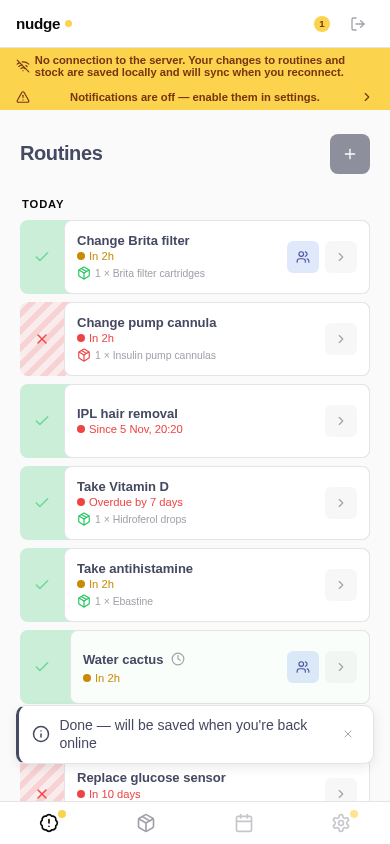
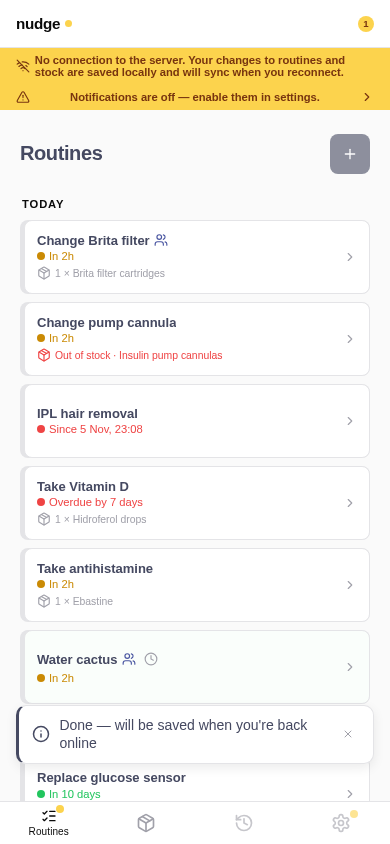
docs: regenerate screenshots with the touch layout
E2E:
- Give both screenshot contexts hasTouch + isMobile so the CSS sees a
  phone; the captures had the routine cards' mouse layout (44 px check strip)
- Reach the card's check by focus + Enter, since on touch it sits
  behind the 4 px strip

Docs:
- Regenerate all 14 docs/screenshots after the T104-T107 visual polish

diff --git a/e2e/screenshots.js b/e2e/screenshots.js
@@ -192,10 +192,15 @@ async function main() {
     ],
   })
   // locale: 'en-US' pins react-i18next's language-detector to English
-  // regardless of the host / runner locale.
+  // regardless of the host / runner locale. hasTouch + isMobile (T108): the
+  // captures are phone-sized, so the CSS must see a phone (hover: none,
+  // pointer: coarse) — otherwise the routine cards render their mouse layout
+  // (the 44 px coloured check strip) instead of the touch one (4 px grey).
   const context = await browser.newContext({
     viewport: { width: 390, height: 844 },
     locale: 'en-US',
+    hasTouch: true,
+    isMobile: true,
   })
   const page = await context.newPage()
 
@@ -279,6 +284,8 @@ async function main() {
       const context2 = await browser.newContext({
         viewport: { width: 390, height: 844 },
         locale: 'en-US',
+        hasTouch: true,
+        isMobile: true,
       })
       const page2 = await context2.newPage()
       await login(page2, USER2_EMAIL, PASS)
@@ -306,8 +313,11 @@ async function main() {
     const cactusTitle = page.getByText('Water cactus', { exact: true }).first()
     await cactusTitle.waitFor({ state: 'visible', timeout: 10_000 })
     // The check on the card's action layer (T101), same action as a swipe.
+    // On touch it sits behind the card's 4 px strip, so it is reached the way
+    // a keyboard or screen reader does: focus (first stop of the card) + Enter.
     const cactusCard = page.getByTestId('routine-card').filter({ hasText: 'Water cactus' }).first()
-    await cactusCard.getByRole('button', { name: 'Mark as done' }).click()
+    await cactusCard.getByRole('button', { name: 'Mark as done' }).focus()
+    await page.keyboard.press('Enter')
     await page.waitForSelector('[data-testid="offline-banner"]', { state: 'visible' })
     await page.waitForSelector('[data-testid="pending-badge"]', { state: 'visible' })
     await screenshot(page, 'offline-banner')
@@ -396,7 +406,9 @@ async function main() {
     const vitDTitle = pageL.getByText('Take Vitamin D', { exact: true }).first()
     await vitDTitle.waitFor({ state: 'visible', timeout: 10_000 })
     const vitDCard = pageL.getByTestId('routine-card').filter({ hasText: 'Take Vitamin D' }).first()
-    await vitDCard.getByRole('button', { name: 'Mark as done' }).click()
+    // Touch layout: the check is behind the card (see the offline step).
+    await vitDCard.getByRole('button', { name: 'Mark as done' }).focus()
+    await pageL.keyboard.press('Enter')
     const modal = pageL.getByRole('dialog')
     await modal.waitFor({ state: 'visible', timeout: 5_000 })
     await pageL.waitForTimeout(300)
